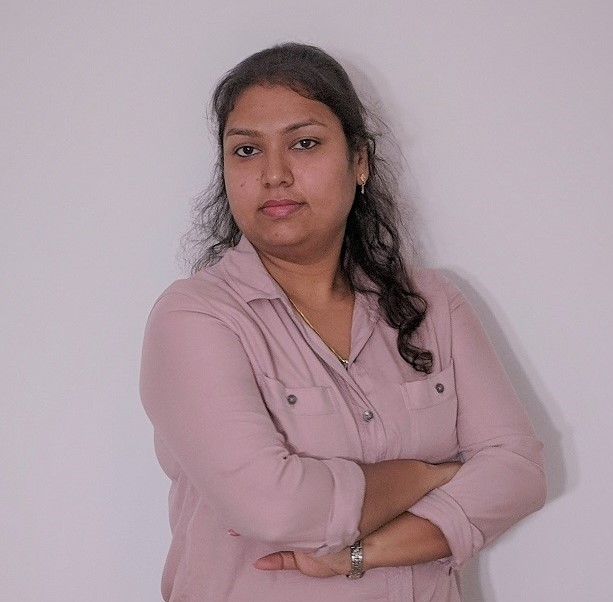
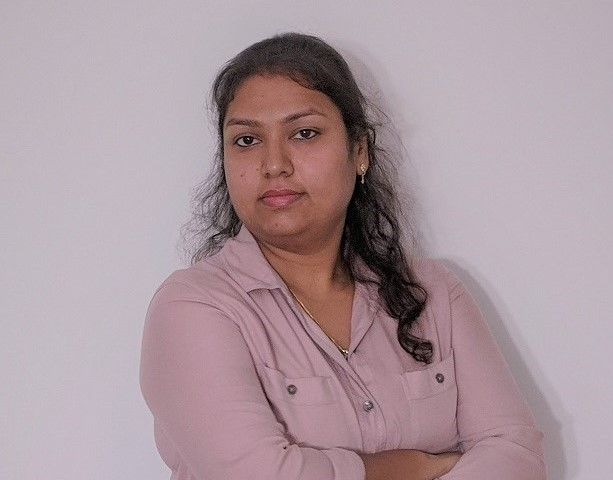
images resized and checked mobile view

Changed region(s): [[0.217, 0.0938, 0.9299, 1.0], [0.4649, 0.0625, 0.4959, 0.0938], [0.3409, 0.625, 0.3719, 0.6562]]

diff --git a/team-final.html b/team-final.html
@@ -216,7 +216,7 @@
 			<!-- <div class="row"> -->
 				<div class = "col-lg-3 col-md-3 col-sm-4 col-xs-6">
 					<div class = "team-container">
-						<div class="image-container">
+						<div class="image-container image-container-small">
 							<div style = "background-image:url(images/team/sandeep-1@.jpg);" class = "background-image"></div>
 							<div style = "background-image:url(images/team/sandeep-2@.jpg);" class = "background-image hover"></div>
 						</div>
@@ -230,7 +230,7 @@
 				</div>	
 				<div class = "col-lg-3 col-md-3 col-sm-4 col-xs-6">
 					<div class = "team-container">
-						<div class="image-container">
+						<div class="image-container image-container-small">
 							<div style = "background-image:url(images/team/Sonam-1.jpg);" class = "background-image"></div>
 							<div style = "background-image:url(images/team/Sonam-2.jpg);" class = "background-image hover"></div>
 						</div>
@@ -244,7 +244,7 @@
 				</div>	
 				<div class = "col-lg-3 col-md-3 col-sm-4 col-xs-6">
 					<div class = "team-container">
-						<div class="image-container">
+						<div class="image-container image-container-small">
 							<div style = "background-image:url(images/team/Shubhamedit-1.jpg);" class = "background-image"></div>
 							<div style = "background-image:url(images/team/Shubhamedit-2.jpg);" class = "background-image hover"></div>
 						</div>
@@ -258,7 +258,7 @@
 				</div>
 				<div class = "col-lg-3 col-md-3 col-sm-4 col-xs-6">
 					<div class = "team-container">
-						<div class="image-container">
+						<div class="image-container image-container-small">
 							<div style = "background-image:url(images/team/shiva-1@.jpg);" class = "background-image"></div>
 							<div style = "background-image:url(images/team/shiva-2@.jpg);" class = "background-image hover"></div>
 						</div>
@@ -274,7 +274,7 @@
 			<!-- <div class="row"> -->
 				<div class = "col-lg-3 col-md-3 col-sm-4 col-xs-6">
 					<div class = "team-container">
-						<div class="image-container">
+						<div class="image-container image-container-small">
 							<div style = "background-image:url(images/team/nikhilBh-1@.jpg);" class = "background-image"></div>
 							<div style = "background-image:url(images/team/nikhilBh-2@.jpg);" class = "background-image hover"></div>
 						</div>
@@ -290,7 +290,7 @@
 				</div>	
 				<div class = "col-lg-3 col-md-3 col-sm-4 col-xs-6">
 					<div class = "team-container">
-						<div class="image-container">
+						<div class="image-container image-container-small">
 							<div style = "background-image:url(images/team/arpit-1@.jpg);" class = "background-image"></div>
 							<div style = "background-image:url(images/team/arpit-2@.jpg);" class = "background-image hover"></div>
 						</div>
@@ -305,7 +305,7 @@
 				</div>	
 				<div class = "col-lg-3 col-md-3 col-sm-4 col-xs-6">
 					<div class = "team-container">
-						<div class="image-container">
+						<div class="image-container image-container-small">
 							<div style = "background-image:url(images/team/avi-1@.jpg);" class = "background-image"></div>
 							<div style = "background-image:url(images/team/Aviedit-2.jpg);" class = "background-image hover"></div>
 						</div>
@@ -320,7 +320,7 @@
 				</div>
 				<div class = "col-lg-3 col-md-3 col-sm-4 col-xs-6">
 					<div class = "team-container">
-						<div class="image-container">
+						<div class="image-container image-container-small">
 							<div style = "background-image:url(images/team/dhruv-1@.jpg);" class = "background-image"></div>
 							<div style = "background-image:url(images/team/dhruv-2@.jpg);" class = "background-image hover"></div>
 						</div>
@@ -337,7 +337,7 @@
 			<!-- <div class="row"> -->
 				<div class = "col-lg-3 col-md-3 col-sm-4 col-xs-6">
 					<div class = "team-container">
-						<div class="image-container">
+						<div class="image-container image-container-small">
 							<div style = "background-image:url(images/team/Surajedit-1.jpg);" class = "background-image"></div>
 							<div style = "background-image:url(images/team/Suraj-2.jpg);" class = "background-image hover"></div>
 						</div>
@@ -353,7 +353,7 @@
 				</div>	
 				<div class = "col-lg-3 col-md-3 col-sm-4 col-xs-6">
 					<div class = "team-container">
-						<div class="image-container">
+						<div class="image-container image-container-small">
 							<div style = "background-image:url(images/team/prateek-1@.jpg);" class = "background-image"></div>
 							<div style = "background-image:url(images/team/prateek-2@.jpg);" class = "background-image hover"></div>
 						</div>
@@ -369,7 +369,7 @@
 				</div>	
 				<div class = "col-lg-3 col-md-3 col-sm-4 col-xs-6">
 					<div class = "team-container">
-						<div class="image-container">
+						<div class="image-container image-container-small">
 							<div style = "background-image:url(images/team/Rahuledit-1.jpg);" class = "background-image"></div>
 							<div style = "background-image:url(images/team/Rahuledit-2.jpg);" class = "background-image hover"></div>
 						</div>
@@ -385,7 +385,7 @@
 				</div>
 				<div class = "col-lg-3 col-md-3 col-sm-4 col-xs-6">
 					<div class = "team-container">
-						 <div class="image-container">
+						 <div class="image-container image-container-small">
 							<div style = "background-image:url(images/team/vishal-1@.jpg);" class = "background-image"></div>
 							<div style = "background-image:url(images/team/vishaledit-2.jpg);" class = "background-image hover"></div>
 						</div>
@@ -403,7 +403,7 @@
 			<!-- <div class="row"> -->
 				<div class = "col-lg-3 col-md-3 col-sm-4 col-xs-6">
 					<div class = "team-container">
-						<div class="image-container">
+						<div class="image-container image-container-small">
 							<div style = "background-image:url(images/team/dipanshi-1@.jpg);" class = "background-image"></div>
 							<div style = "background-image:url(images/team/dipanshi-2@.jpg);" class = "background-image hover"></div>
 						</div>
@@ -419,7 +419,7 @@
 				</div>	
 				<div class = "col-lg-3 col-md-3 col-sm-4 col-xs-6">
 					<div class = "team-container">
-						<div class="image-container">
+						<div class="image-container image-container-small">
 							<div style = "background-image:url(images/team/mohit-1@.jpg);" class = "background-image"></div>
 							<div style = "background-image:url(images/team/Mohit@-2.jpg);" class = "background-image hover"></div>
 						</div>
@@ -435,7 +435,7 @@
 				</div>	
 				<div class = "col-lg-3 col-md-3 col-sm-4 col-xs-6">
 					<div class = "team-container">
-						<div class="image-container">
+						<div class="image-container image-container-small">
 							<div style = "background-image:url(images/team/sandeepKum-1@.jpg);" class = "background-image"></div>
 							<div style = "background-image:url(images/team/sandeepKum-2@.jpg);" class = "background-image hover"></div>
 						</div>
@@ -451,7 +451,7 @@
 				</div>
 				<div class = "col-lg-3 col-md-3 col-sm-4 col-xs-6">
 					<div class = "team-container">
-						<div class="image-container">
+						<div class="image-container image-container-small">
 							<div style = "background-image:url(images/team/nikhilMah-1@.jpg);" class = "background-image"></div>
 							<div style = "background-image:url(images/team/nikhilMah-2@.jpg);" class = "background-image hover"></div>
 						</div>
@@ -469,7 +469,7 @@
 				<!-- <div class="row"> -->
 					<div class = "col-lg-3 col-md-3 col-sm-4 col-xs-6">
 						<div class = "team-container">
-							<div class="image-container">
+							<div class="image-container image-container-small">
 								<div style = "background-image:url(images/team/ayush-1@.jpg);" class = "background-image"></div>
 								<div style = "background-image:url(images/team/ayush-2@.jpg);" class = "background-image hover"></div>
 							</div>
@@ -484,7 +484,7 @@
 					</div>	
 					<div class = "col-lg-3 col-md-3 col-sm-4 col-xs-6">
 						<div class = "team-container">
-							<div class="image-container">
+							<div class="image-container image-container-small">
 								<div style = "background-image:url(images/team/bhagyashree-1@.jpg);" class = "background-image"></div>
 								<div style = "background-image:url(images/team/bhagyashree-2@.jpg);" class = "background-image hover"></div>
 							</div>
@@ -502,7 +502,7 @@
 					</div>	
 					<div class = "col-lg-3 col-md-3 col-sm-4 col-xs-6">
 						<div class = "team-container">
-							<div class="image-container">
+							<div class="image-container image-container-small">
 								<div style = "background-image:url(images/team/priyal-1.jpg);" class = "background-image"></div>
 								<div style = "background-image:url(images/team/priyal-2@.jpg);" class = "background-image hover"></div>
 							</div>
@@ -518,7 +518,7 @@
 					</div>
 					<div class = "col-lg-3 col-md-3 col-sm-4 col-xs-6">
 						<div class = "team-container ">
-							<div class="image-container">
+							<div class="image-container image-container-small">
 								<div style = "background-image:url(images/team/user-icon6.png);" class = "background-image"></div>
 								<div class="overlay">
 								    <div class="text">?</div>

diff --git a/css/demo-team.css b/css/demo-team.css
@@ -1562,7 +1562,7 @@ a.social-icon:hover {
     }
     .banner .content {
         margin-bottom: -50px;
-        padding-top: 181px;
+        padding-top: 131px;
     }
     .font-size-60 {
         font-size: 39px;
@@ -1571,9 +1571,12 @@ a.social-icon:hover {
         font-size: 24px;
     }
     .parallax {
-        background-size: contain;
+        background-size: cover;
         background-attachment: scroll;
         background-position: bottom;
+    }
+    .general-banner{
+        padding-top: 70px;
     }
 }
 
@@ -1588,7 +1591,7 @@ a.social-icon:hover {
 
 @media (max-width:680px) {
     .footer-content {
-        padding-top: 198px;
+        padding-top: 177px;
     }
     .service-content-row4 {
         height: 204px;
@@ -1777,6 +1780,9 @@ a.social-icon:hover {
     .service-content-row4 {
         height: 242px;
     }
+    .image-container-small{
+            height: 218px;
+    }
 }
 
 @media (max-width:767px) {
@@ -1945,7 +1951,7 @@ a.social-icon:hover {
         height: 538px;
     }
     .banner .content {
-        padding-top: 155px;
+        padding-top: 101px;
     }
     .image-container .background-image {
         background-size: cover;
@@ -1980,6 +1986,12 @@ a.social-icon:hover {
     .image-container {
         height: 390px;
     }
+    .services-section-head{
+            padding-bottom: 14px;
+    }
+    .image-container-small{
+        height: 280px;
+    }
 }
 
 @media (max-width:450px) {
@@ -1994,13 +2006,13 @@ a.social-icon:hover {
         font-size: 30px;
     }
     .banner .content {
-        padding-top: 128px;
+        padding-top:70px;
     }
     .font-size-60 {
         font-size: 23px;
     }
     .general-team {
-        min-height: 250px;
+        min-height: 210px;
     }
     .banner .content .main-heading-inner {
         margin-bottom: 11px;
@@ -2027,10 +2039,13 @@ a.social-icon:hover {
         height: 212px;
     }
     .image-container {
-        height: 362px;
+        height: 332px;
     }
     .image-container-purvi{
         height: 297px;
+    }
+    .general-banner{
+        padding-top: 79px;
     }
 }
 
@@ -2057,13 +2072,13 @@ a.social-icon:hover {
         height: 507px;
     }
     .image-container {
-        height: 310px;
+        height: 280px;
     }
     .image-container-purvi {
         height: 261px;
     }
     .banner .content {
-        padding-top: 110px;
+        padding-top: 50px;
     }
     .font-size-60 {
         font-size: 21px;
@@ -2072,16 +2087,20 @@ a.social-icon:hover {
         font-size: 14px;
     }
     .general-team {
-        min-height: 223px;
+        min-height: 194px;
     }
     .parallax {
         background-attachment: scroll;
-        background-size: contain;
+        background-size: cover;
         background-position: bottom;
     }
     .image-container-sushil{
         height: 270px;
     }
+    .general-banner{
+        padding-top: 78px;
+    }
+    
 }
 
 @media (max-width:320px) {
@@ -2116,6 +2135,12 @@ a.social-icon:hover {
         height: 259px;
     }
     .general-team {
-        min-height: 221px;
+        min-height: 173px;
+    }
+    .general-banner {
+        padding-top: 79px;
+    }
+    .image-container-purvi {
+    height: 233px;
     }
 }
